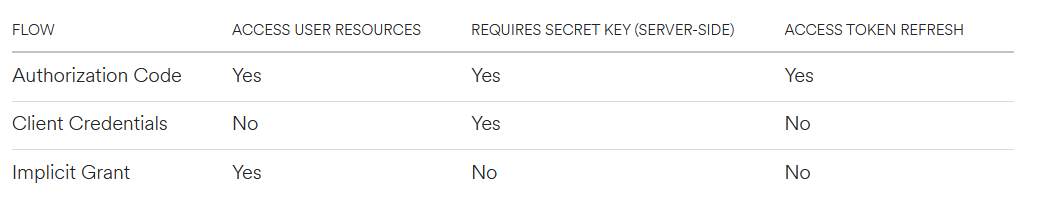
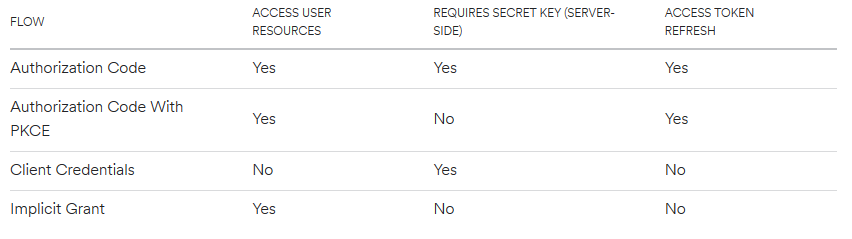
Finished PKCE Docs & Implementation - Example.CLI.PersistentConfig now uses PKCE

diff --git a/SpotifyAPI.Web.Examples/Example.CLI.PersistentConfig/Program.cs b/SpotifyAPI.Web.Examples/Example.CLI.PersistentConfig/Program.cs
@@ -2,11 +2,11 @@ using System.IO;
 using System.Threading.Tasks;
 using System;
 using SpotifyAPI.Web.Auth;
-using SpotifyAPI.Web.Http;
 using SpotifyAPI.Web;
 using System.Collections.Generic;
 using Newtonsoft.Json;
 using static SpotifyAPI.Web.Scopes;
+using Swan.Logging;
 
 namespace Example.CLI.PersistentConfig
 {
@@ -18,15 +18,18 @@ namespace Example.CLI.PersistentConfig
   {
     private const string CredentialsPath = "credentials.json";
     private static readonly string? clientId = Environment.GetEnvironmentVariable("SPOTIFY_CLIENT_ID");
-    private static readonly string? clientSecret = Environment.GetEnvironmentVariable("SPOTIFY_CLIENT_SECRET");
     private static readonly EmbedIOAuthServer _server = new EmbedIOAuthServer(new Uri("http://localhost:5000/callback"), 5000);
 
+    private static void Exiting() => Console.CursorVisible = true;
     public static async Task<int> Main()
     {
-      if (string.IsNullOrEmpty(clientId) || string.IsNullOrEmpty(clientSecret))
+      // This is a bug in the SWAN Logging library, need this hack to bring back the cursor
+      AppDomain.CurrentDomain.ProcessExit += (sender, e) => Exiting();
+
+      if (string.IsNullOrEmpty(clientId))
       {
         throw new NullReferenceException(
-          "Please set SPOTIFY_CLIENT_ID and SPOTIFY_CLIENT_SECRET via environment variables before starting the program"
+          "Please set SPOTIFY_CLIENT_ID via environment variables before starting the program"
         );
       }
 
@@ -46,9 +49,9 @@ namespace Example.CLI.PersistentConfig
     private static async Task Start()
     {
       var json = await File.ReadAllTextAsync(CredentialsPath);
-      var token = JsonConvert.DeserializeObject<AuthorizationCodeTokenResponse>(json);
+      var token = JsonConvert.DeserializeObject<PKCETokenResponse>(json);
 
-      var authenticator = new AuthorizationCodeAuthenticator(clientId!, clientSecret!, token);
+      var authenticator = new PKCEAuthenticator(clientId!, token);
       authenticator.TokenRefreshed += (sender, token) => File.WriteAllText(CredentialsPath, JsonConvert.SerializeObject(token));
 
       var config = SpotifyClientConfig.CreateDefault()
@@ -68,12 +71,25 @@ namespace Example.CLI.PersistentConfig
 
     private static async Task StartAuthentication()
     {
+      var (verifier, challenge) = PKCEUtil.GenerateCodes();
+
       await _server.Start();
-      _server.AuthorizationCodeReceived += OnAuthorizationCodeReceived;
+      _server.AuthorizationCodeReceived += async (sender, response) =>
+      {
+        await _server.Stop();
+        PKCETokenResponse token = await new OAuthClient().RequestToken(
+          new PKCETokenRequest(clientId!, response.Code, _server.BaseUri, verifier)
+        );
+
+        await File.WriteAllTextAsync(CredentialsPath, JsonConvert.SerializeObject(token));
+        await Start();
+      };
 
       var request = new LoginRequest(_server.BaseUri, clientId!, LoginRequest.ResponseType.Code)
       {
-        Scope = new List<string> { UserReadEmail, UserReadPrivate, PlaylistReadPrivate }
+        CodeChallenge = challenge,
+        CodeChallengeMethod = "S256",
+        Scope = new List<string> { UserReadEmail, UserReadPrivate, PlaylistReadPrivate, PlaylistReadCollaborative }
       };
 
       Uri uri = request.ToUri();
@@ -85,17 +101,6 @@ namespace Example.CLI.PersistentConfig
       {
         Console.WriteLine("Unable to open URL, manually open: {0}", uri);
       }
-    }
-
-    private static async Task OnAuthorizationCodeReceived(object sender, AuthorizationCodeResponse response)
-    {
-      await _server.Stop();
-      AuthorizationCodeTokenResponse token = await new OAuthClient().RequestToken(
-        new AuthorizationCodeTokenRequest(clientId!, clientSecret!, response.Code, _server.BaseUri)
-      );
-
-      await File.WriteAllTextAsync(CredentialsPath, JsonConvert.SerializeObject(token));
-      await Start();
     }
   }
 }

diff --git a/SpotifyAPI.Web/Authenticators/PKCEAuthenticator.cs b/SpotifyAPI.Web/Authenticators/PKCEAuthenticator.cs
@@ -1,0 +1,65 @@
+using System;
+using System.Threading.Tasks;
+using SpotifyAPI.Web.Http;
+
+namespace SpotifyAPI.Web
+{
+  /// <summary>
+  ///   This Authenticator requests new credentials token on demand and stores them into memory.
+  ///   It is unable to query user specifc details.
+  /// </summary>
+  public class PKCEAuthenticator : IAuthenticator
+  {
+    /// <summary>
+    ///   Initiate a new instance. The token will be refreshed once it expires.
+    ///   The initialToken will be updated with the new values on refresh!
+    /// </summary>
+    public PKCEAuthenticator(string clientId, PKCETokenResponse initialToken)
+    {
+      Ensure.ArgumentNotNull(clientId, nameof(clientId));
+      Ensure.ArgumentNotNull(initialToken, nameof(initialToken));
+
+      InitialToken = initialToken;
+      ClientId = clientId;
+    }
+
+    /// <summary>
+    /// This event is called once a new refreshed token was aquired
+    /// </summary>
+    public event EventHandler<PKCETokenResponse>? TokenRefreshed;
+
+
+    /// <summary>
+    ///   The ClientID, defined in a spotify application in your Spotify Developer Dashboard
+    /// </summary>
+    public string ClientId { get; }
+
+    /// <summary>
+    ///   The inital token passed to the authenticator. Fields will be updated on refresh.
+    /// </summary>
+    /// <value></value>
+    public PKCETokenResponse InitialToken { get; }
+
+    public async Task Apply(IRequest request, IAPIConnector apiConnector)
+    {
+      Ensure.ArgumentNotNull(request, nameof(request));
+
+      if (InitialToken.IsExpired)
+      {
+        var tokenRequest = new PKCETokenRefreshRequest(ClientId, InitialToken.RefreshToken);
+        var refreshedToken = await OAuthClient.RequestToken(tokenRequest, apiConnector).ConfigureAwait(false);
+
+        InitialToken.AccessToken = refreshedToken.AccessToken;
+        InitialToken.CreatedAt = refreshedToken.CreatedAt;
+        InitialToken.ExpiresIn = refreshedToken.ExpiresIn;
+        InitialToken.Scope = refreshedToken.Scope;
+        InitialToken.TokenType = refreshedToken.TokenType;
+        InitialToken.RefreshToken = refreshedToken.RefreshToken;
+
+        TokenRefreshed?.Invoke(this, InitialToken);
+      }
+
+      request.Headers["Authorization"] = $"{InitialToken.TokenType} {InitialToken.AccessToken}";
+    }
+  }
+}

diff --git a/SpotifyAPI.Docs/docs/pkce.md b/SpotifyAPI.Docs/docs/pkce.md
@@ -16,7 +16,7 @@ var (verifier, challenge) = PKCEUtil.GenerateCodes();
 // Generates a secure random verifier of length 120 and its challenge
 var (verifier, challenge) = PKCEUtil.GenerateCodes(120);
 
-// Returns the passed string and its challenge (Make sure it's random and is long enough)
+// Returns the passed string and its challenge (Make sure it's random and long enough)
 var (verifier, challenge) = PKCEUtil.GenerateCodes("YourSecureRandomString");
 ```
 
@@ -37,7 +37,7 @@ var loginRequest = new LoginRequest(
   Scope = new[] { Scopes.PlaylistReadPrivate, Scopes.PlaylistReadCollaborative }
 };
 var uri = loginRequest.ToUri();
-// Redirect user to uri via your favorite web-server
+// Redirect user to uri via your favorite web-server or open a local browser window
 ```
 
 When the user is redirected to the generated uri, he will have to login with his spotify account and confirm, that your application wants to access his user data. Once confirmed, he will be redirect to `http://localhost:5000/callback` and a `code` parameter is attached to the query. The redirect URI can also contain a custom protocol paired with UWP App Custom Protocol handler. This received `code` has to be exchanged for an `access_token` and `refresh_token`:
@@ -47,11 +47,11 @@ When the user is redirected to the generated uri, he will have to login with his
 public Task GetCallback(string code)
 {
   // Note that we use the verifier calculated above!
-  var response = await new OAuthClient().RequestToken(
+  var initialResponse = await new OAuthClient().RequestToken(
     new PKCETokenRequest("ClientId", code, "http://localhost:5000", verifier)
   );
 
-  var spotify = new SpotifyClient(response.AccessToken);
+  var spotify = new SpotifyClient(initialResponse.AccessToken);
   // Also important for later: response.RefreshToken
 }
 ```
@@ -59,11 +59,19 @@ public Task GetCallback(string code)
 With PKCE you can also refresh tokens once they're expired:
 
 ```csharp
-var response = await new OAuthClient().RequestToken(
-  new PKCETokenRefreshRequest("ClientId", oldResponse.RefreshToken)
+var newResponse = await new OAuthClient().RequestToken(
+  new PKCETokenRefreshRequest("ClientId", initialResponse.RefreshToken)
 );
 
-var spotify = new SpotifyClient(response.AccessToken);
+var spotify = new SpotifyClient(newResponse.AccessToken);
 ```
 
+If you do not want to take care of manually refreshing tokens, you can use `PKCEAuthenticator`:
 
+```csharp
+var authenticator = new PKCEAuthenticator(clientId, initialResponse);
+
+var config = SpotifyClientConfig.CreateDefault()
+  .WithAuthenticator(authenticator);
+var spotify = new SpotifyClient(config);
+```

diff --git a/SpotifyAPI.Docs/docs/auth_introduction.md b/SpotifyAPI.Docs/docs/auth_introduction.md
@@ -7,16 +7,17 @@ import useBaseUrl from '@docusaurus/useBaseUrl';
 
 Spotify does not allow unauthorized access to the api. Thus, you need an access token to make requets. This access token can be gathered via multiple schemes, all following the OAuth2 spec. Since it's important to choose the correct scheme for your usecase, make sure you have a grasp of the following terminology/docs:
 
-* OAuth2
-* [Spotify Authorization Flows](https://developer.spotify.com/documentation/general/guides/authorization-guide/#authorization-code-flow)
+- OAuth2
+- [Spotify Authorization Flows](https://developer.spotify.com/documentation/general/guides/authorization-guide/#authorization-code-flow)
 
 Since every auth flow also needs an application in the [spotify dashboard](https://developer.spotify.com/dashboard/), make sure you have the necessary values (like `Client Id` and `Client Secret`).
 
 Then, continue with the docs of the specific auth flows:
 
-* [Client Credentials](client_credentials.md)
-* [Implicit Grant](implicit_grant.md)
-* [Authorization Code](authorization_code.md)
-* [Token Swap](token_swap.md)
+- [Client Credentials](client_credentials.md)
+- [Implicit Grant](implicit_grant.md)
+- [Authorization Code](authorization_code.md)
+- [PKCE](pkce.md)
+- [(Token Swap)](token_swap.md)
 
 <img alt="auth comparison" src={useBaseUrl('img/auth_comparison.png')} />
